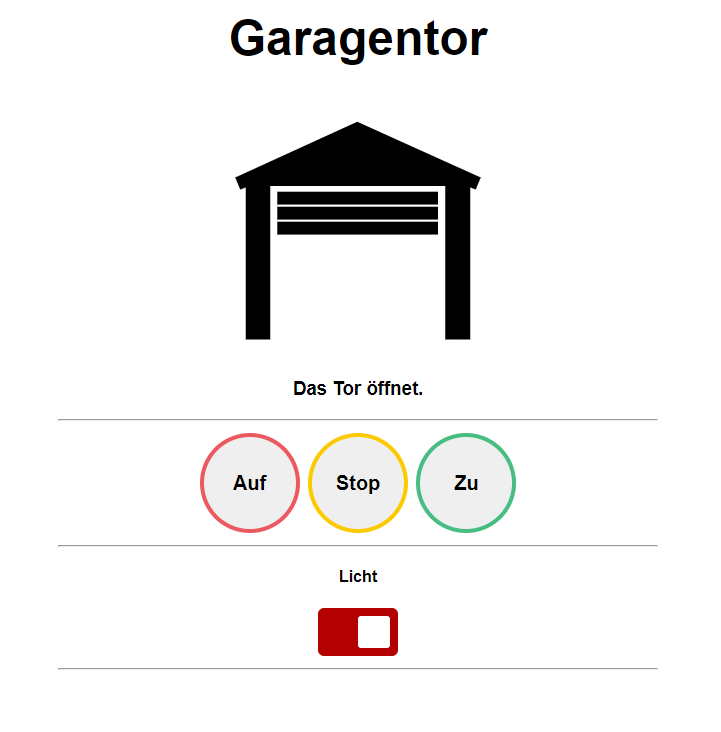
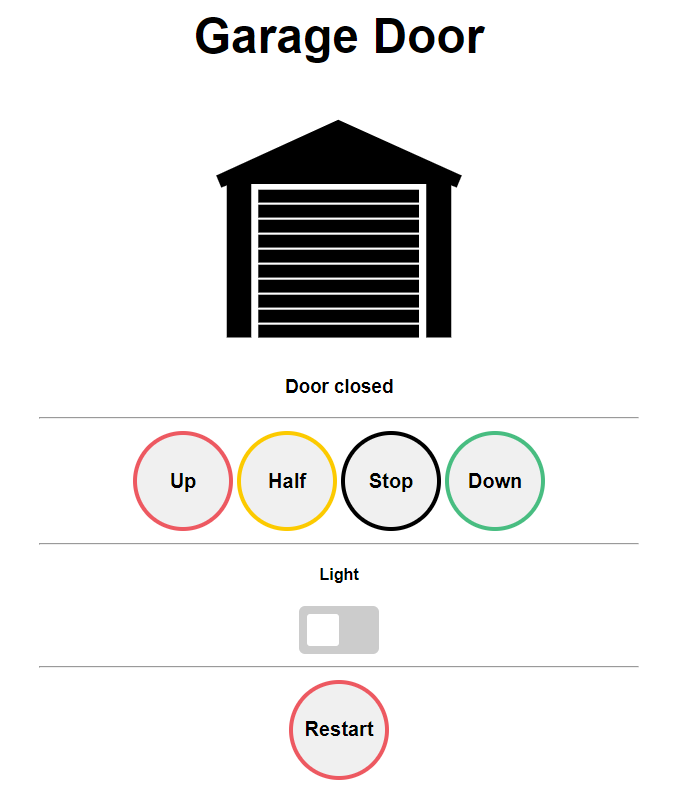
Doc update and partial translation to english

diff --git a/README.md b/README.md
@@ -45,6 +45,7 @@ Eigentlich war das Ziel, die Steuerung komplett nur mit einem ESP8266 zu realisi
 | 3 | Lüftungsstellung |
 | 4 | 1/2 öffnen |
 | 5 | Lampe an/an |
+| 6 | Restart |
 
 ### Türstatus abfragen:
 
@@ -64,7 +65,7 @@ Response (JSON):
 }
 ```
 
-### Wifi Status abfragen:
+### Wifi Status:
 
 ***http://[deviceip]/sysinfo***
 
@@ -86,7 +87,7 @@ Response (JSON):
 ## RS485 Adapter:
 
 ![alt text](Images/rs485board-min.png)  
-Zwischen A+ (Red) und B- (Green) ist ein 120 Ohm Widerstand zum terminieren des BUS!
+Pins A+ (Red) und B- (Green) need a 120 Ohm resistor for BUS termination.
 
 ## DS18X20 Temperature Sensor
 
@@ -96,7 +97,7 @@ DS18X20 connected to GPIO4.
 ## Schaltung
 
 ![alt text](Images/esp32.png) <br/>
-ESP32 (Bisher stabil durch Nutzung beider Kerne, 25V auf 5V durch LM2596S DC-DC Step Down Module)
+ESP32 (requires a Step Down Module such as LM2596S DC-DC, but any will do 24VDC ==> 5VDC will do)
 
 ## Installation
 
@@ -114,8 +115,3 @@ Integrate https://github.com/hkiam/HCPBridge into HomeAssistant through MQTT.
 This is just a quick and dirty impmlementation and needs refactoring. However, it works fine for me.
 
 ![alt text](Images/HA.png)
-
-## Changelog
-
-06\.03.2021: Neue Version mit Arduino Pro Mini als Co MCU
-24\.02.2021: Neue Version via Interrupt und für ESP32 zur Vermeidung von Timing-Problemen
